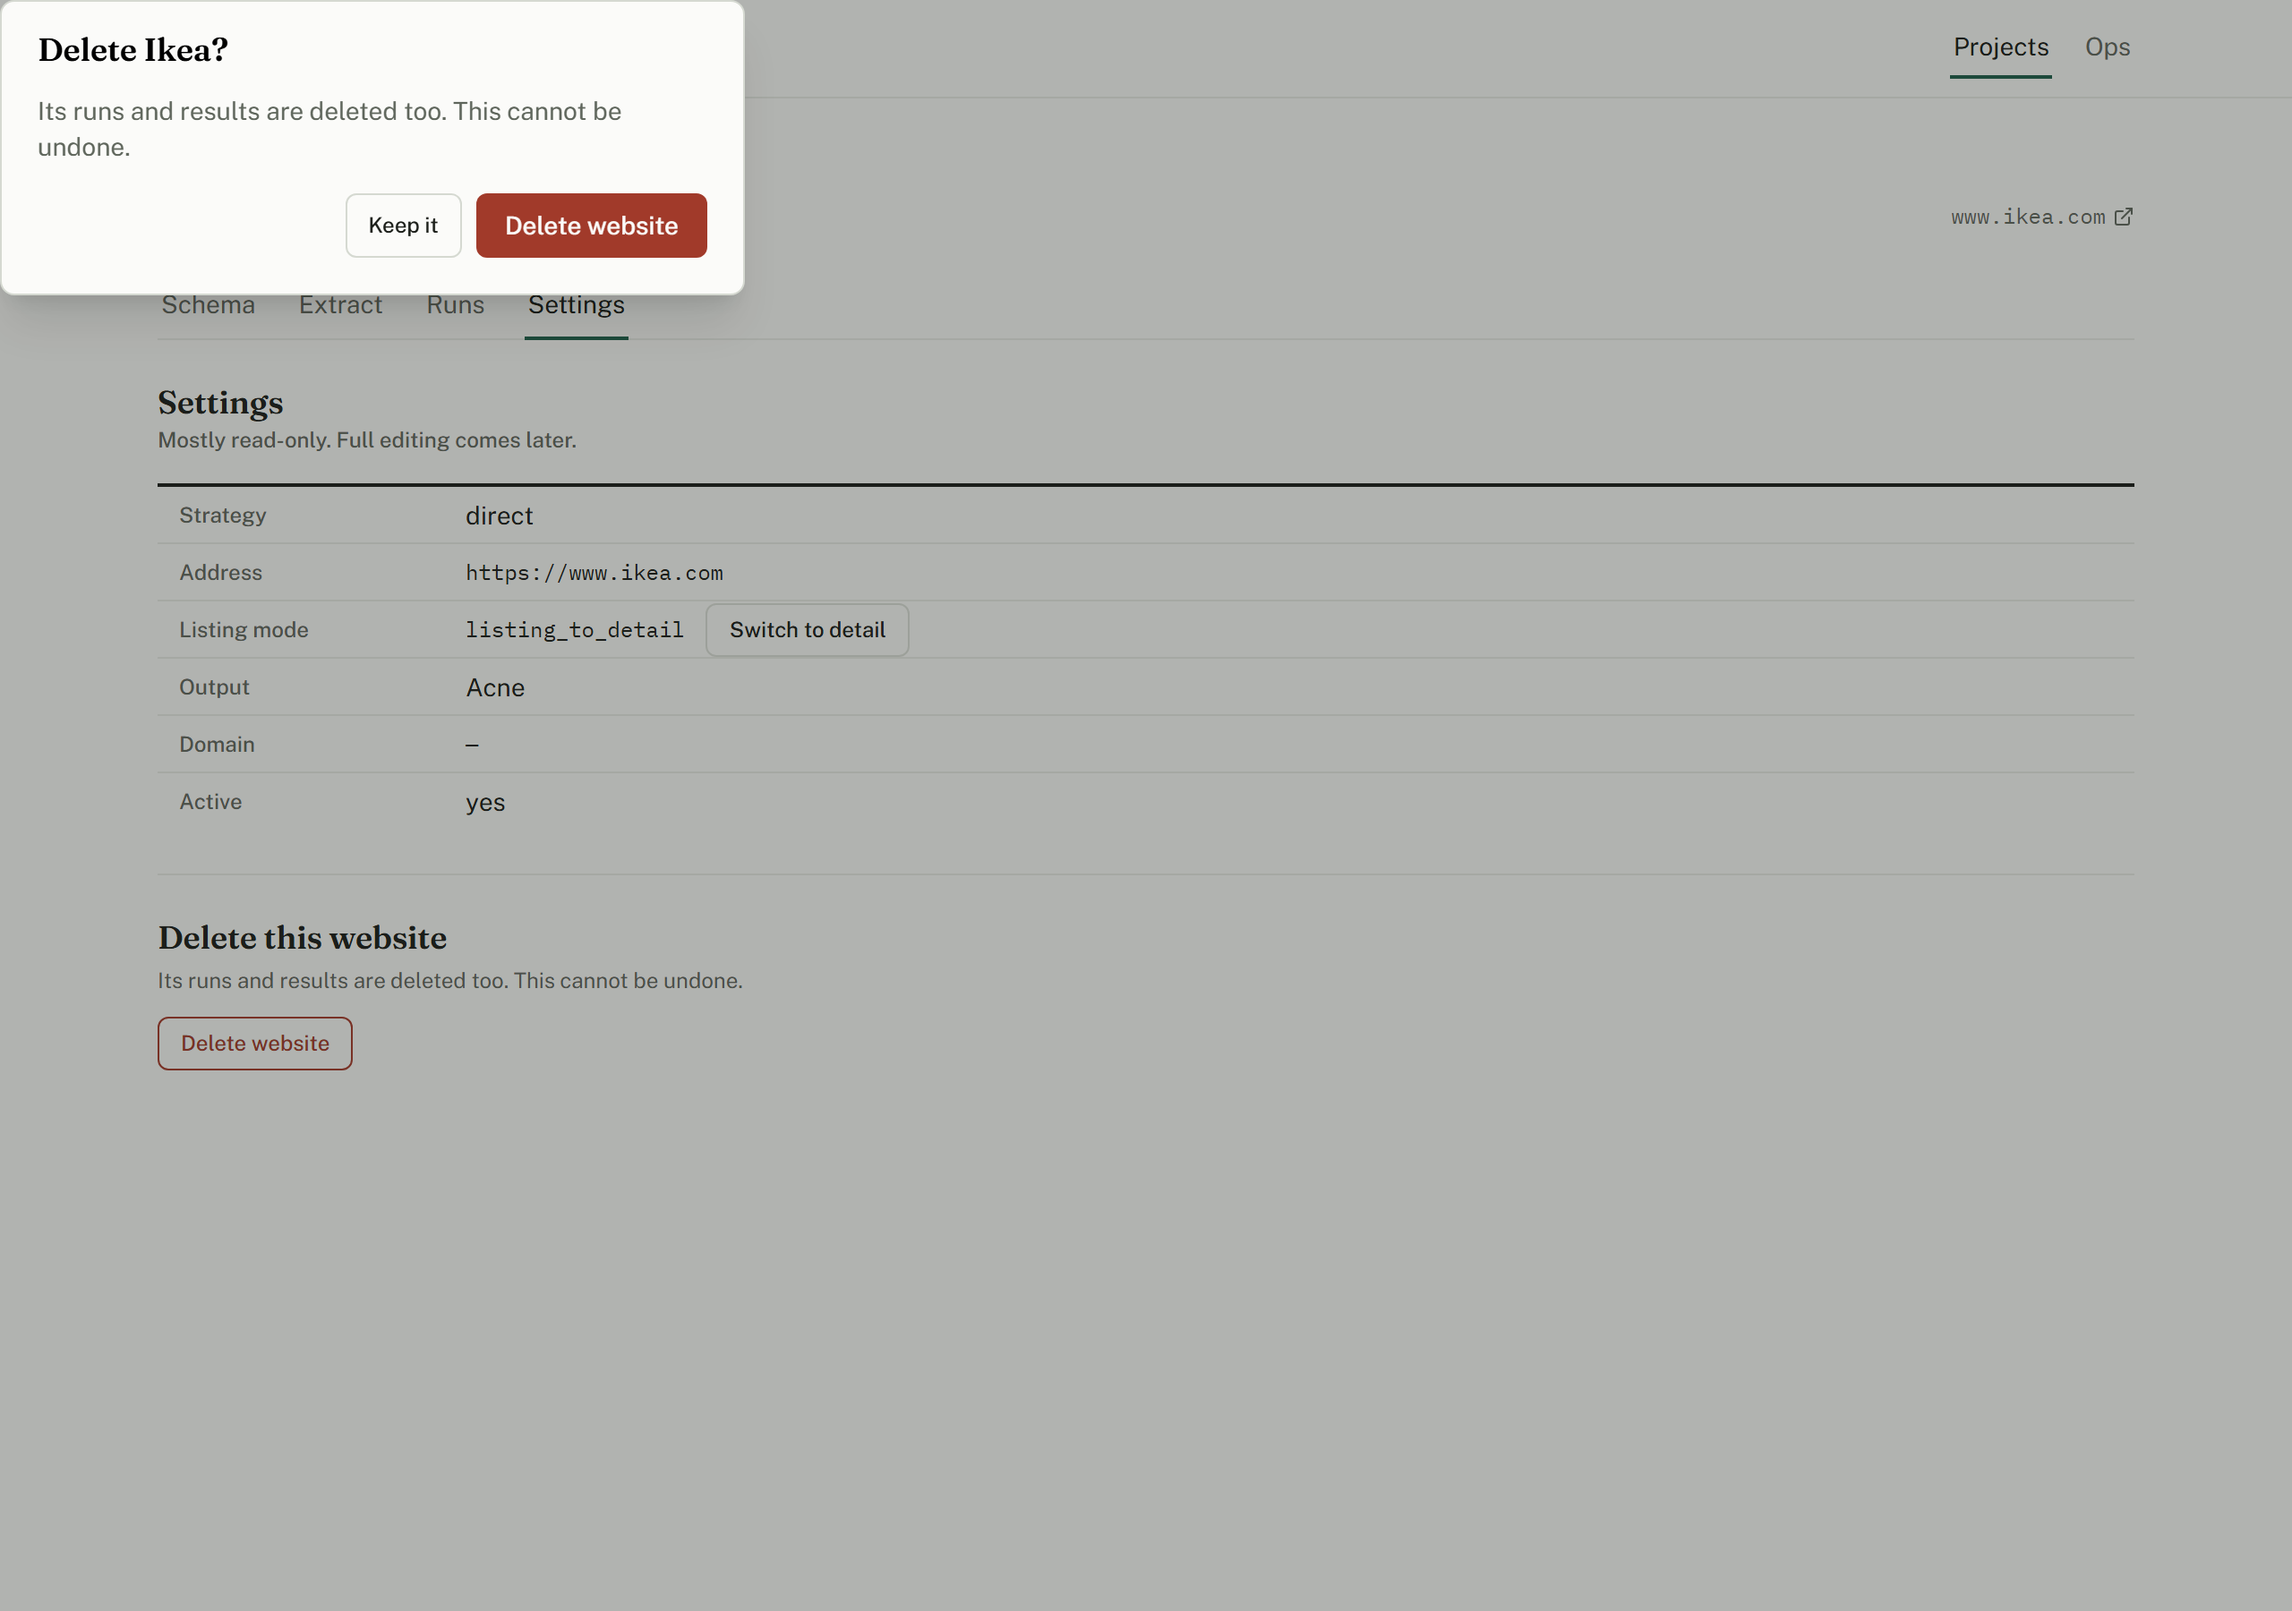
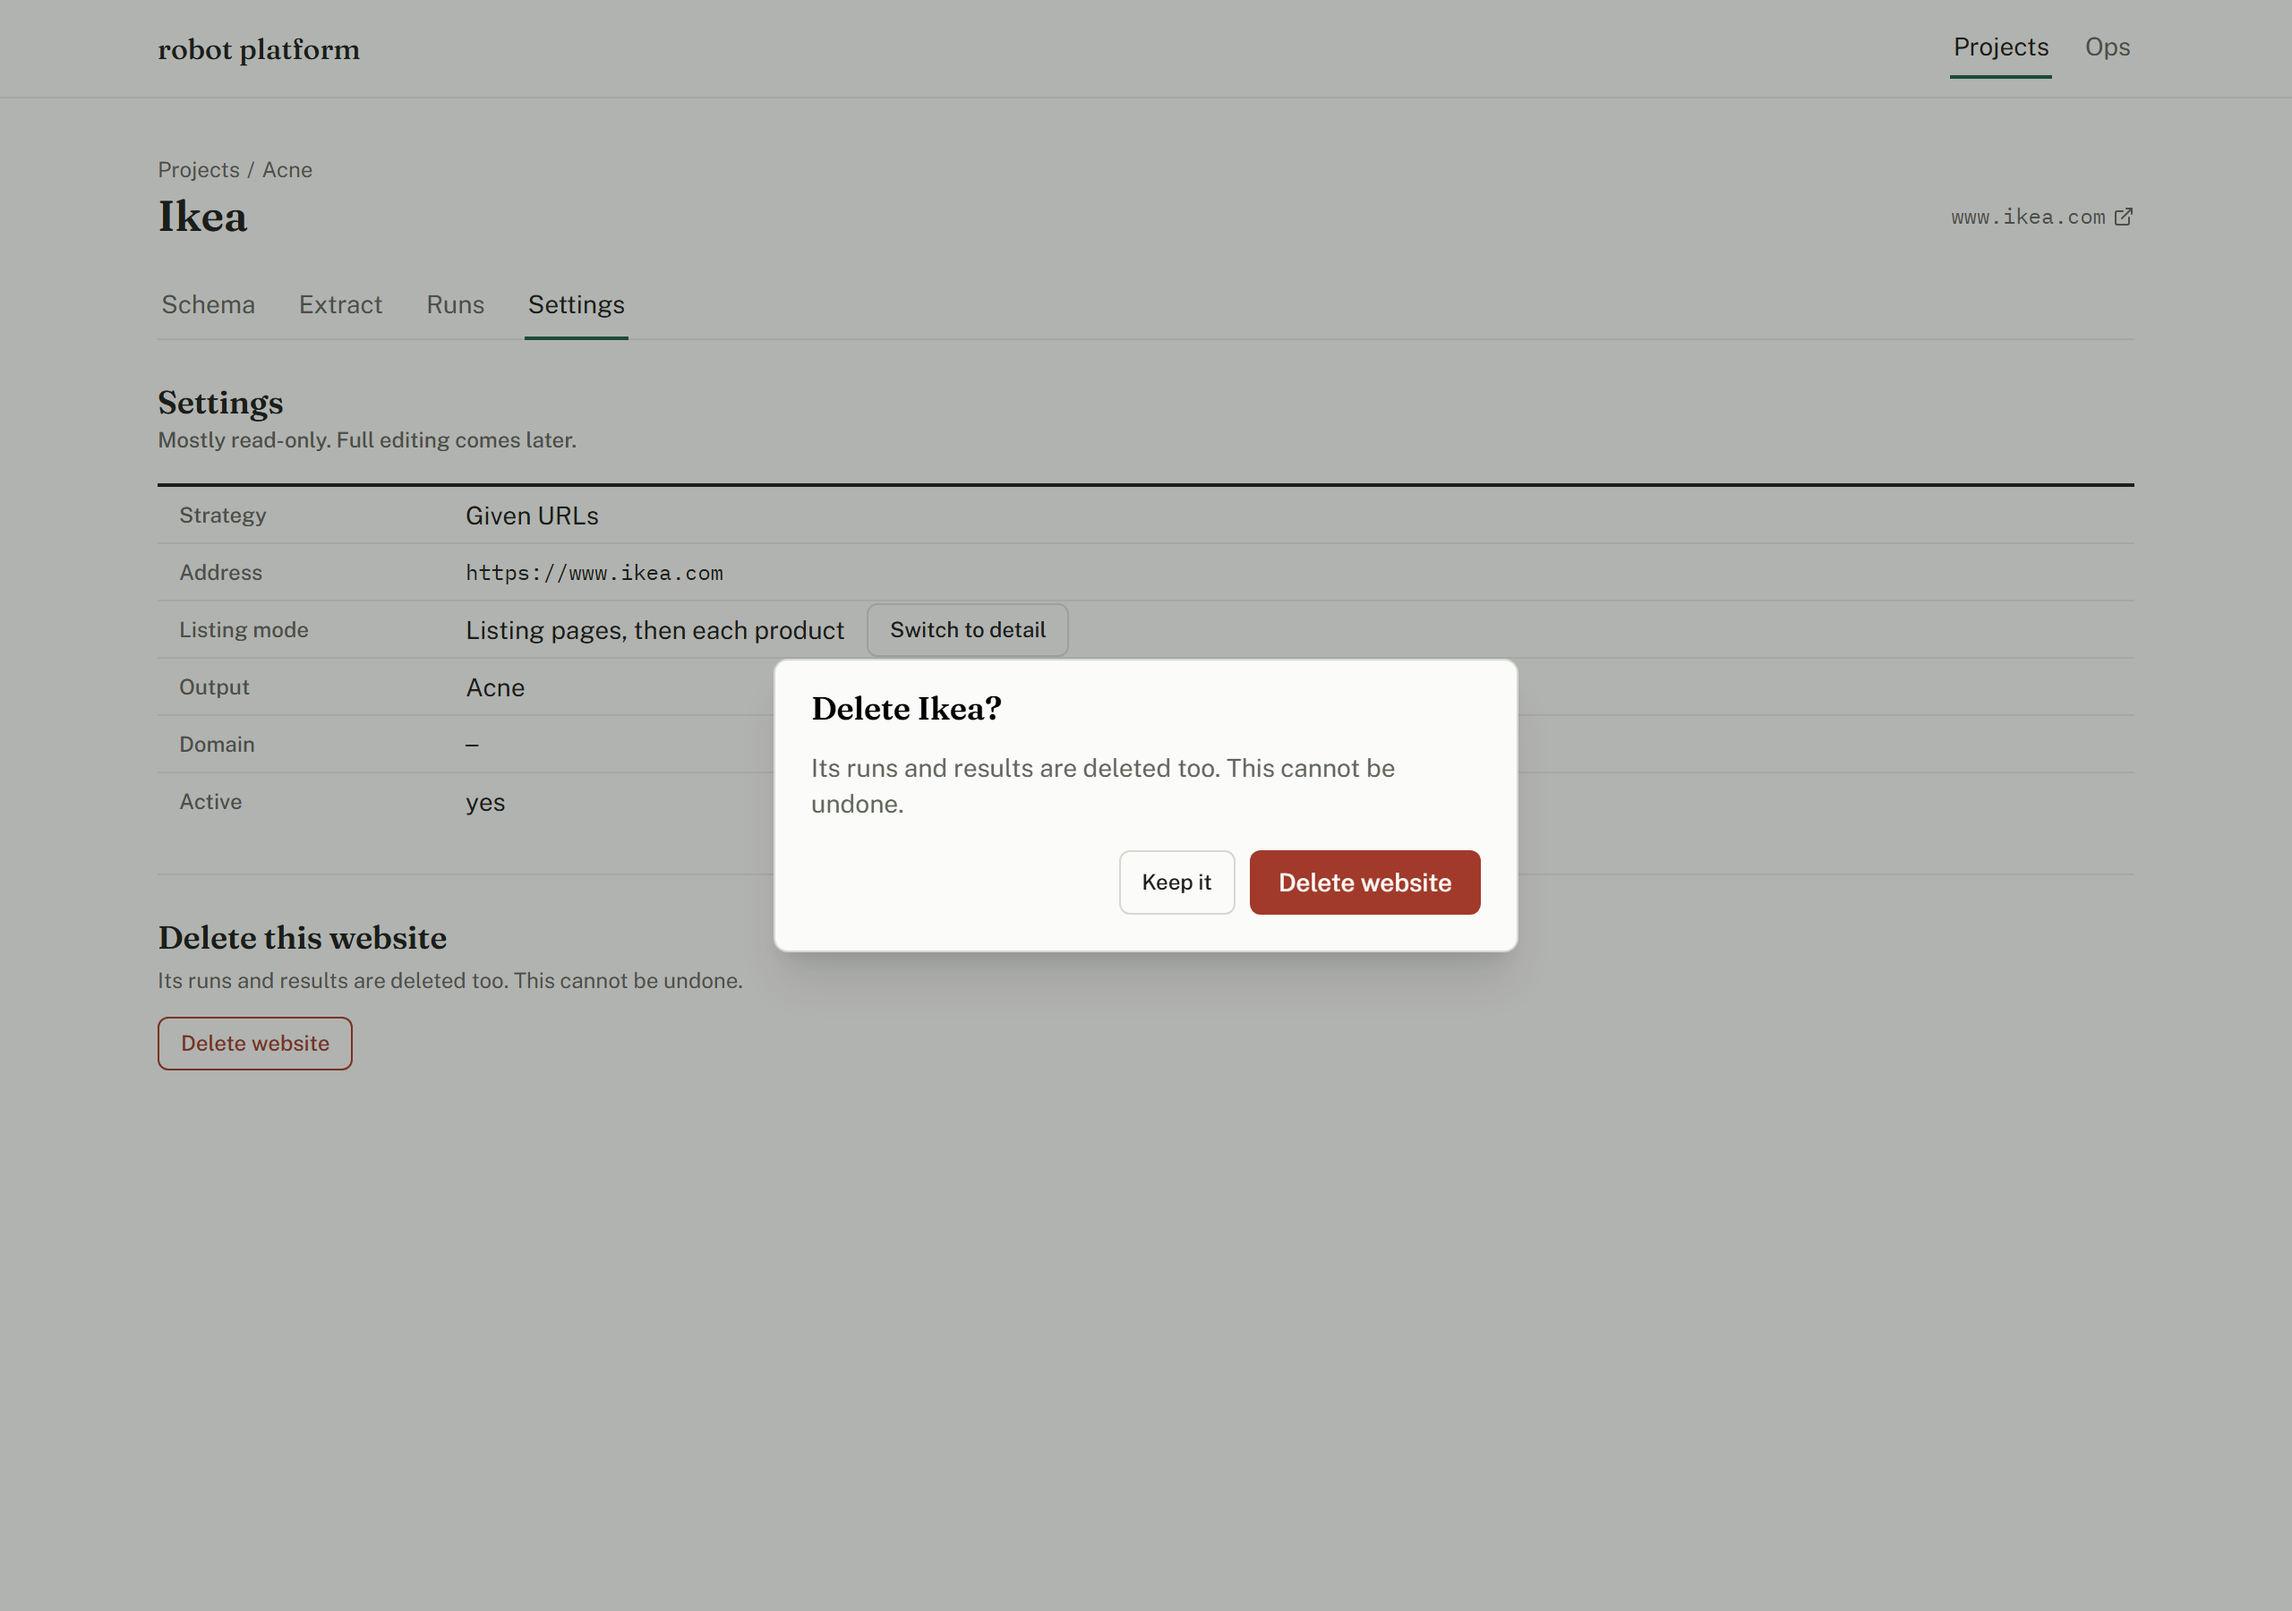
fix(dashboard): dialogs centre; Settings speaks in words, not enums
Every `<dialog>` in the app rendered in the top-left corner: Tailwind's preflight
zeroes the UA stylesheet's `margin: auto`, which is exactly what centres a modal
dialog. `m-auto` puts New project, Add website and Delete website back in the
middle of the viewport.

Settings stops showing engine enums. Listing mode reads "Listing pages, then each
product" or "Product URLs", strategy reads "Given URLs"; an unrecognised value is
shown verbatim rather than swallowed, so a mode added server-side stays visible
instead of quietly reading as one of these. The delete button no longer inherits
`btn-primary`'s moss disabled-hover, and closing the dialog resets the mutation so
a refusal cannot be waiting inside it the next time it opens.

The Runs list showed Plan crawl twice when it was empty — once in the header, once
as the empty state's action. The header keeps it only when there is a list.

The Output page's middle breadcrumb linked to the project but was labelled with the
dataset's name; `datasets.getBySlug` returns no project row, so it is labelled with
the project slug — the thing it actually links to. Its last two "dataset" strings
become "output".

Claude-Session: https://claude.ai/code/session_01AZ6EysmV6fcq3FxP33KFsw

Changed region(s): [[0.2188, 0.3733, 0.6875, 0.5911], [0.0, 0.0, 0.3438, 0.1867], [0.1875, 0.3111, 0.25, 0.3422]]

diff --git a/packages/dashboard/src/routes/source-config.tsx b/packages/dashboard/src/routes/source-config.tsx
@@ -42,12 +42,12 @@ export default function SourceConfig() {
       <p className="label-soft mt-0.5">Mostly read-only. Full editing comes later.</p>
 
       <dl className="mt-4 border-t-2 border-t-gray-900 [&>div:last-child]:border-b-0">
-        <Row label="Strategy" value={source.inputStrategy ?? '—'} />
+        <Row label="Strategy" value={strategyWords(source.inputStrategy)} />
         <Row label="Address" value={source.urlTemplate ?? '—'} mono />
         <div className="grid h-8 grid-cols-[160px_1fr] items-center border-b border-gray-200 px-3">
           <dt className="label-soft">Listing mode</dt>
           <dd className="flex items-center gap-3">
-            <span className="font-mono text-xs">{source.listingMode ?? '—'}</span>
+            <span className="text-sm">{listingModeWords(source.listingMode)}</span>
             {isLocked ? (
               <span className="label-soft">Mode is locked once the website is confirmed</span>
             ) : (
@@ -73,6 +73,22 @@ export default function SourceConfig() {
       <DeleteWebsite projectSlug={projectSlug} sourceId={source.id} name={source.name} />
     </div>
   );
+}
+
+/**
+ * The stored values are engine enums; the customer reads what they mean. An
+ * unknown value is shown verbatim rather than swallowed, so a new mode added
+ * server-side is visible here instead of silently reading as one of these.
+ */
+function listingModeWords(mode: string | null): string {
+  if (mode === 'listing_to_detail') return 'Listing pages, then each product';
+  if (mode === 'detail') return 'Product URLs';
+  return mode ?? '—';
+}
+
+function strategyWords(strategy: string | null): string {
+  if (strategy === 'direct') return 'Given URLs';
+  return strategy ?? '—';
 }
 
 function Row({ label, value, mono }: { label: string; value: string; mono?: boolean }) {
@@ -101,6 +117,9 @@ function DeleteWebsite({ projectSlug, sourceId, name }: { projectSlug: string; s
       navigate({ to: '/projects/$project', params: { project: projectSlug } });
     },
   });
+  // Closing resets the mutation: a refusal from a previous attempt must not be
+  // waiting inside the dialog the next time it opens.
+  const close = () => { setConfirming(false); deleteMutation.reset(); };
 
   return (
     <div className="mt-6 border-t border-gray-200 pt-6">
@@ -117,7 +136,7 @@ function DeleteWebsite({ projectSlug, sourceId, name }: { projectSlug: string; s
       <Dialog
         open={confirming}
         title={`Delete ${name}?`}
-        onClose={() => { if (!deleteMutation.isPending) setConfirming(false); }}
+        onClose={() => { if (!deleteMutation.isPending) close(); }}
         preventClose={deleteMutation.isPending}
       >
         <p className="text-sm text-gray-600">Its runs and results are deleted too. This cannot be undone.</p>
@@ -126,13 +145,13 @@ function DeleteWebsite({ projectSlug, sourceId, name }: { projectSlug: string; s
             type="button"
             className="btn-quiet h-9"
             disabled={deleteMutation.isPending}
-            onClick={() => setConfirming(false)}
+            onClick={close}
           >
             Keep it
           </button>
           <button
             type="button"
-            className="btn-primary h-9 bg-fail hover:bg-fail"
+            className="btn-primary h-9 bg-fail hover:bg-fail disabled:hover:bg-fail"
             disabled={deleteMutation.isPending}
             onClick={() => deleteMutation.mutate({ sourceId })}
           >

diff --git a/packages/dashboard/src/routes/dataset-detail.tsx b/packages/dashboard/src/routes/dataset-detail.tsx
@@ -29,9 +29,9 @@ export default function DatasetDetail({ datasetSlug }: { datasetSlug: string }) 
     datasetSlug,
   });
 
-  if (detailQuery.isLoading) return <Spinner label="Loading dataset..." />;
+  if (detailQuery.isLoading) return <Spinner label="Loading output..." />;
   if (detailQuery.isError) return <ErrorBanner message={detailQuery.error.message} />;
-  if (!detailQuery.data) return <NotFound what={`Dataset "${datasetSlug}"`} />;
+  if (!detailQuery.data) return <NotFound what={`Output "${datasetSlug}"`} />;
 
   const dataset = detailQuery.data;
   const schema = (Array.isArray(dataset.schema) ? dataset.schema : []) as SchemaField[];
@@ -39,7 +39,7 @@ export default function DatasetDetail({ datasetSlug }: { datasetSlug: string }) 
 
   return (
     <div>
-      <Breadcrumbs projectSlug={projectSlug} datasetName={dataset.name} />
+      <Breadcrumbs projectSlug={projectSlug} />
       <div className="mt-2">
         <PageHeader title="Output" description={dataset.description ?? `Every column in ${dataset.name}.`} />
       </div>
@@ -246,13 +246,13 @@ function SchemaFieldOrigins({ datasetId, schema, sources }: { datasetId: string;
   );
 }
 
-function Breadcrumbs({ projectSlug, datasetName }: { projectSlug: string; datasetName: string }) {
+function Breadcrumbs({ projectSlug }: { projectSlug: string }) {
   return (
     <div className="flex items-center gap-1 text-xs text-gray-600">
       <Link to="/projects" className="hover:text-gray-900">Projects</Link>
       <span>/</span>
       <Link to="/projects/$project" params={{ project: projectSlug }} className="hover:text-gray-900">
-        {datasetName}
+        {projectSlug}
       </Link>
       <span>/</span>
       <span className="text-gray-900">Output</span>

diff --git a/packages/dashboard/src/routes/source-runs.tsx b/packages/dashboard/src/routes/source-runs.tsx
@@ -29,6 +29,8 @@ export default function SourceRuns() {
   if (runsQuery.isError) return <ErrorBanner message={runsQuery.error.message} />;
 
   const runs = runsQuery.data ?? [];
+  // One Plan crawl button, never two: with no runs it is the empty state's
+  // action, otherwise it sits in the header.
   const planButton = <PlanCrawlButton sourceId={source.id} listingMode={source.listingMode} />;
 
   return (
@@ -38,7 +40,7 @@ export default function SourceRuns() {
           <h2 className="name text-lg">Runs</h2>
           <p className="label-soft mt-0.5">Every extraction this website has run.</p>
         </div>
-        <div className="ml-auto">{planButton}</div>
+        {runs.length > 0 && <div className="ml-auto">{planButton}</div>}
       </div>
 
       {runs.length === 0 ? (

diff --git a/packages/dashboard/src/components/dialog.tsx b/packages/dashboard/src/components/dialog.tsx
@@ -20,7 +20,7 @@ export function Dialog({ open, title, onClose, preventClose, children }: { open:
       onClose={onClose}
       onCancel={(e) => { if (preventClose) e.preventDefault(); }}
       onClick={(e) => { if (!preventClose && e.target === ref.current) ref.current?.close(); }}
-      className="card w-[26rem] max-w-[calc(100vw-2rem)] p-0 shadow-xl backdrop:bg-gray-900/30"
+      className="card m-auto w-[26rem] max-w-[calc(100vw-2rem)] p-0 shadow-xl backdrop:bg-gray-900/30"
     >
       <div className="px-5 pt-4 pb-5" onClick={(e) => e.stopPropagation()}>
         <h2 className="name text-lg">{title}</h2>
